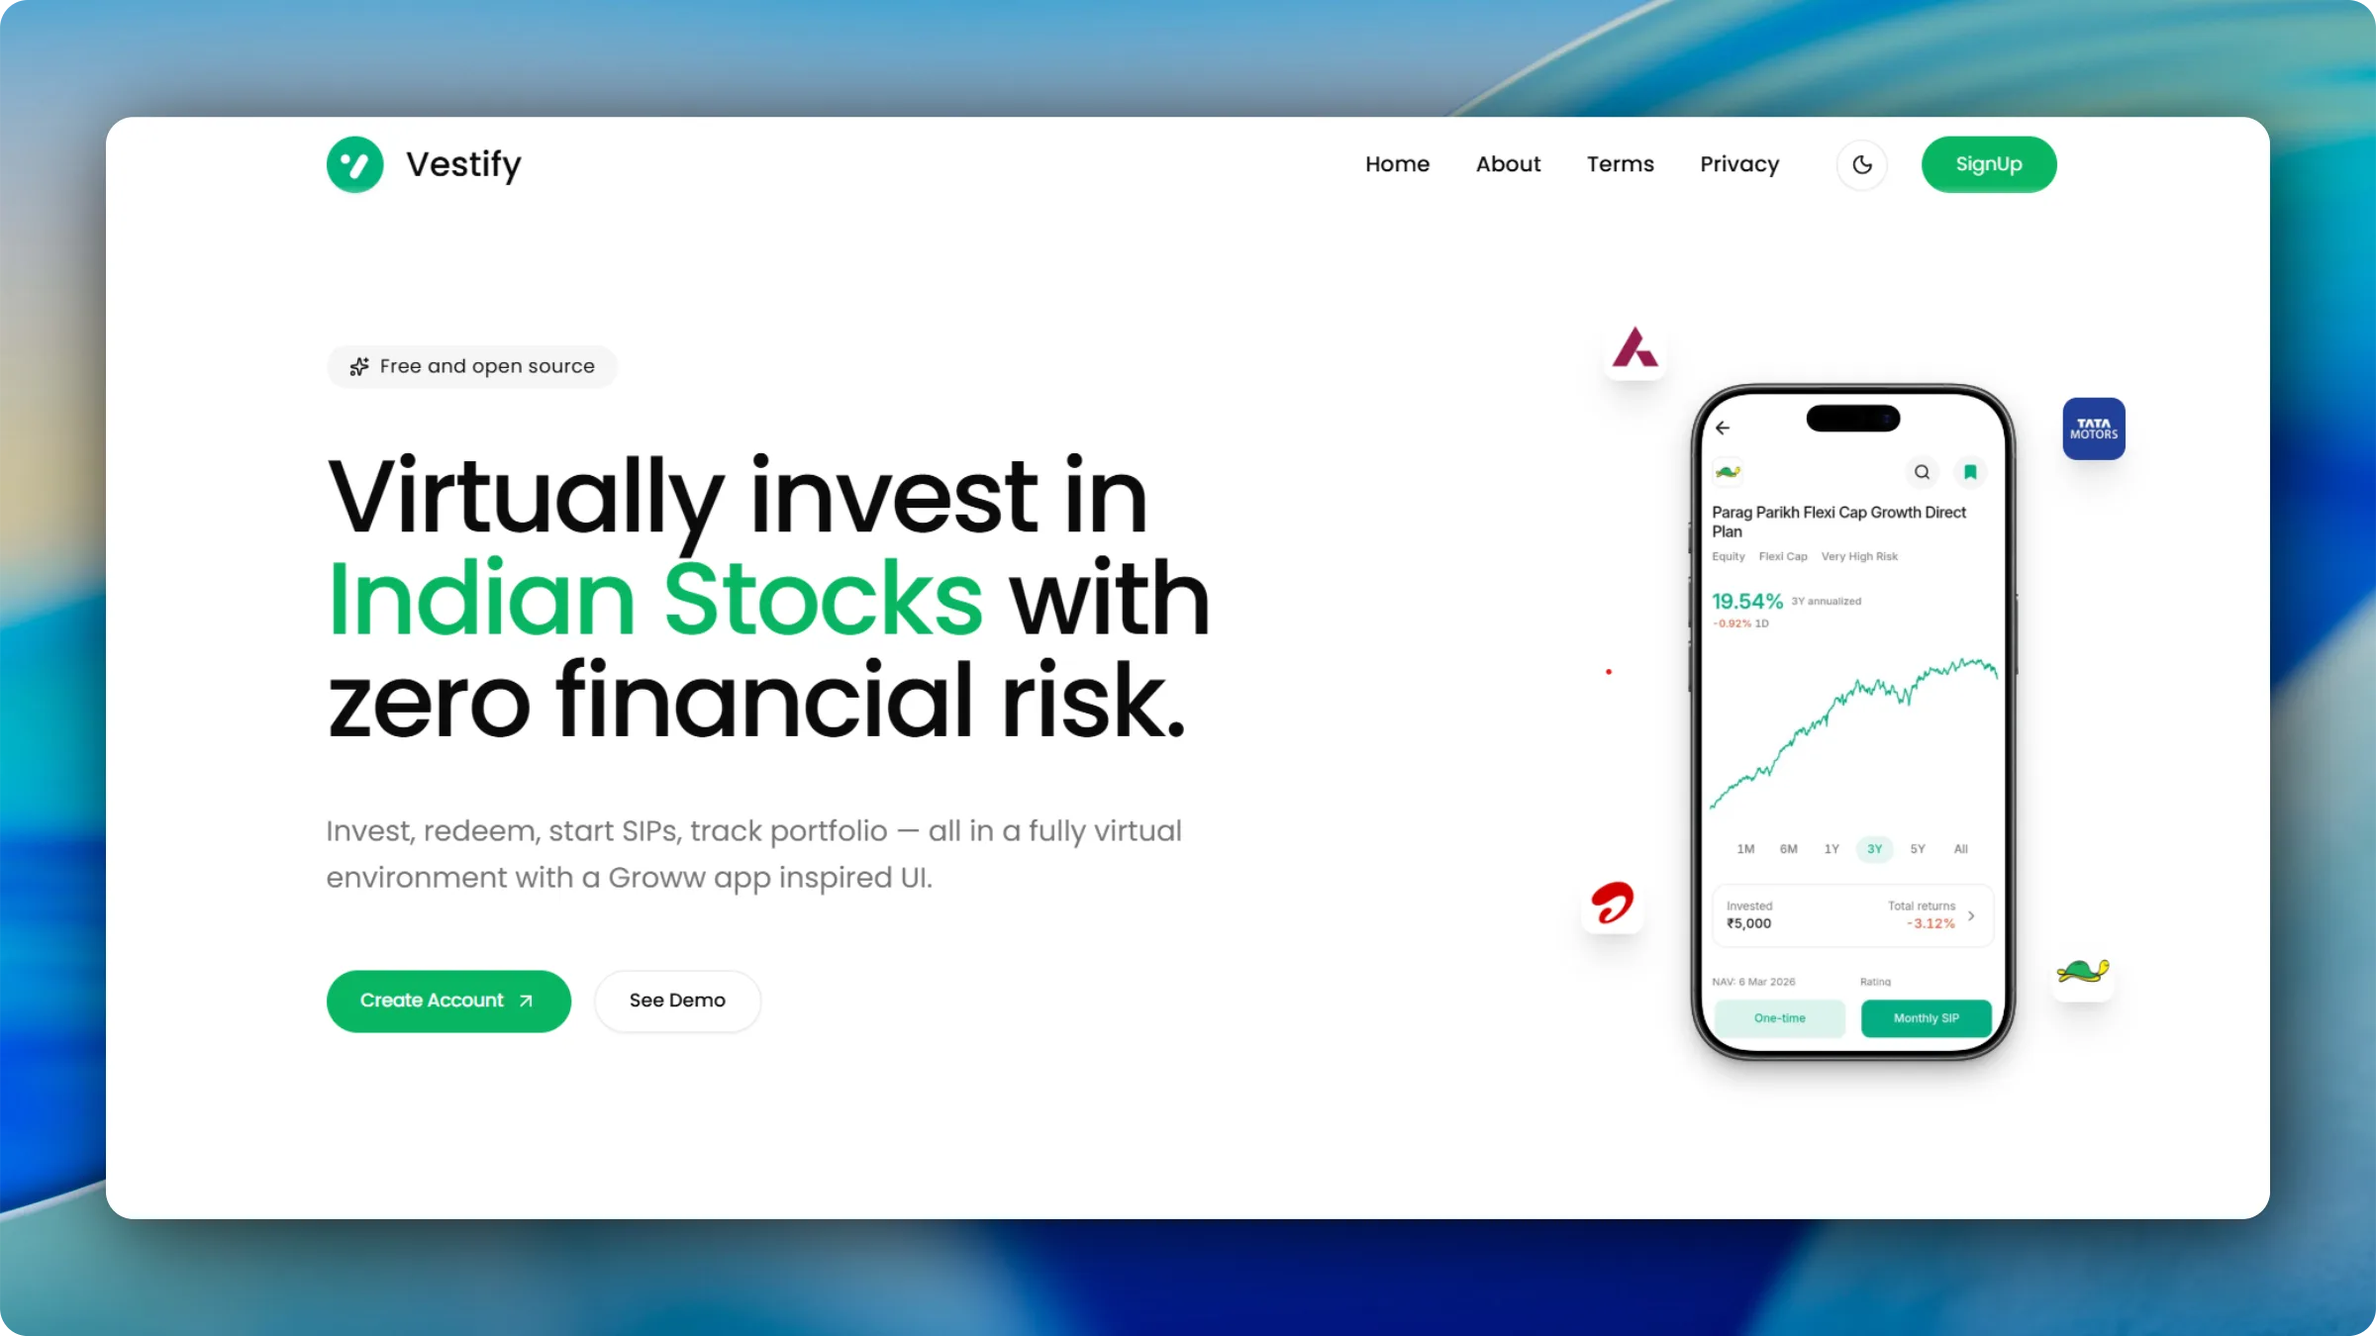
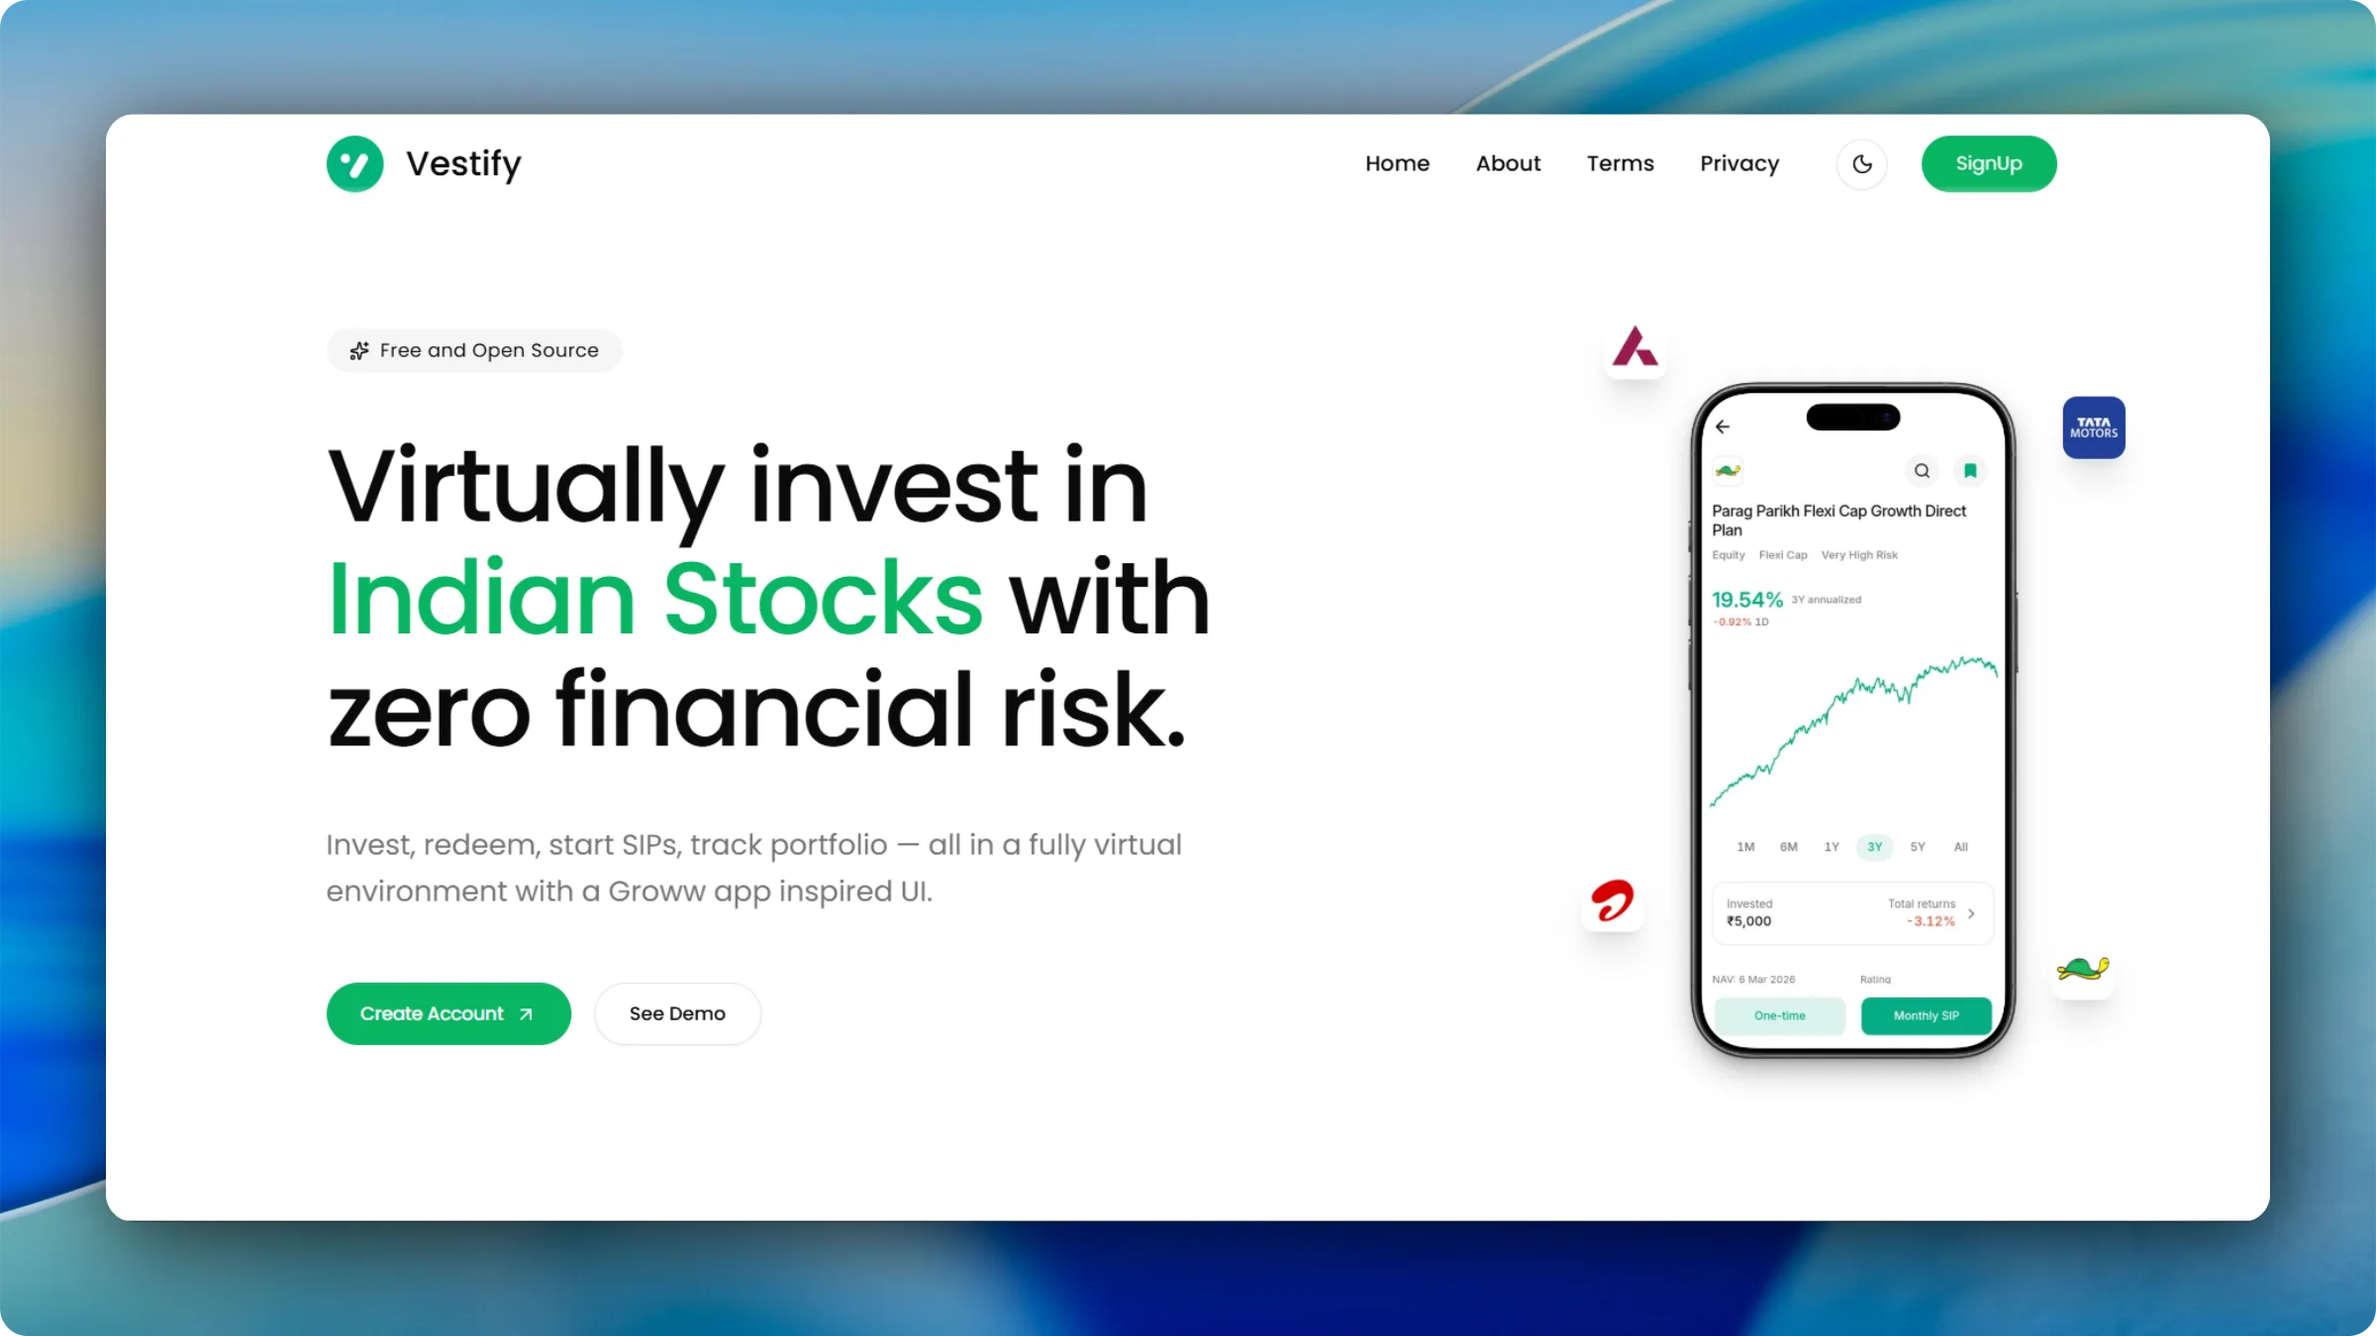
refactor: restructure modules and refine UI layout
- Move `constants/` from `src/lib/` to `src/constants/` and create dedicated `src/utils/`
- Update module import paths across all components, pages, and API routes
- Adjust profile header layout, quick navigation styles, and section spacing
- Simplify OpenGraph image component and update site metadata configuration

diff --git a/src/components/sections/profile-header.tsx b/src/components/sections/profile-header.tsx
@@ -3,35 +3,35 @@ import { File02Icon } from "@hugeicons/core-free-icons";
 import { HugeiconsIcon } from "@hugeicons/react";
 import { TbRosetteDiscountCheckFilled } from "react-icons/tb";
 
-import { RESUME_LINK } from "@/lib/constants/site";
-import { SOCIALS } from "@/lib/constants/socials";
 import {
   Tooltip,
   TooltipContent,
   TooltipTrigger,
 } from "@/components/ui/tooltip";
+import { RESUME_LINK } from "@/constants/site";
+import { SOCIALS } from "@/constants/socials";
 import { LinkButton } from "../ui/link-button";
 
 export default function ProfileHeader() {
   return (
-    <section id="profile-header">
+    <section id="profile-header" className="scroll-mt-34!">
       <div className="relative mt-14 pb-8 sm:mt-18 sm:flex sm:gap-12">
         <Image
           src="/avatar.jpeg"
           width={1546}
           height={1450}
           alt="avatar"
-          className="bg-accent size-30 rounded-full object-cover sm:size-43"
+          className="bg-accent size-32 rounded-full object-cover sm:size-43"
         />
 
-        {/* Title & Description */}
         <div>
+          {/* Title & Description */}
           <div>
-            <div className="mt-4 flex items-center gap-2 sm:gap-3">
-              <h1 className="text-2xl font-semibold tracking-tight sm:text-4xl sm:tracking-normal">
+            <div className="mt-4 flex items-center gap-2 sm:gap-4">
+              <h1 className="text-[1.625rem] font-semibold tracking-tight sm:text-4xl sm:tracking-normal">
                 Priyanshu Barman
               </h1>
-              <TbRosetteDiscountCheckFilled className="size-5 text-blue-500 sm:size-6" />
+              <TbRosetteDiscountCheckFilled className="size-5 text-blue-500 sm:size-7" />
             </div>
             <p className="text-muted-foreground mt-1 ml-0.5 tracking-tight sm:mt-3 sm:text-lg">
               Full-Stack Developer • India
@@ -39,43 +39,41 @@ export default function ProfileHeader() {
           </div>
 
           {/* Buttons */}
-          <div className="mt-3 flex flex-col-reverse gap-4 sm:mt-5 sm:flex sm:flex-row sm:items-center">
-            <div className="flex items-center gap-3">
-              <LinkButton
-                href={RESUME_LINK}
-                target="_blank"
-                rel="noopener noreferrer"
-                className="h-8.5 rounded-xl px-3 text-xs font-normal sm:h-9"
-              >
-                <HugeiconsIcon icon={File02Icon} />
-                Resume
-              </LinkButton>
+          <div className="mt-3 flex items-center gap-3 sm:mt-5">
+            <LinkButton
+              href={RESUME_LINK}
+              target="_blank"
+              rel="noopener noreferrer"
+              className="h-8.5 rounded-xl px-3 text-xs font-normal sm:h-9"
+            >
+              <HugeiconsIcon icon={File02Icon} />
+              Resume
+            </LinkButton>
 
-              {SOCIALS.map((social) => (
-                <Tooltip key={social.name}>
-                  <TooltipTrigger
-                    render={
-                      <LinkButton
-                        href={social.link}
-                        size="icon-lg"
-                        variant="outline"
-                        target="_blank"
-                        rel="noopener noreferrer"
-                        aria-label={
-                          social.name === "Gmail"
-                            ? "Send me an email"
-                            : `Visit ${social.name} profile`
-                        }
-                        className="rounded-full shadow-xs"
-                      >
-                        <social.icon aria-hidden="true" />
-                      </LinkButton>
-                    }
-                  />
-                  <TooltipContent sideOffset={10}>{social.name}</TooltipContent>
-                </Tooltip>
-              ))}
-            </div>
+            {SOCIALS.map((social) => (
+              <Tooltip key={social.name}>
+                <TooltipTrigger
+                  render={
+                    <LinkButton
+                      href={social.link}
+                      size="icon-lg"
+                      variant="outline"
+                      target="_blank"
+                      rel="noopener noreferrer"
+                      aria-label={
+                        social.name === "Gmail"
+                          ? "Send me an email"
+                          : `Visit ${social.name} profile`
+                      }
+                      className="rounded-full shadow-xs"
+                    >
+                      <social.icon aria-hidden="true" />
+                    </LinkButton>
+                  }
+                />
+                <TooltipContent sideOffset={10}>{social.name}</TooltipContent>
+              </Tooltip>
+            ))}
           </div>
         </div>
       </div>

diff --git a/src/components/quick-navigation.tsx b/src/components/quick-navigation.tsx
@@ -2,7 +2,7 @@
 
 import type { MouseEvent } from "react";
 
-import { SECTIONS } from "@/lib/constants/sections";
+import { SECTIONS } from "@/constants/sections";
 
 /**
  * This component showcases how simple it is to build a scroll-spy / quick navigation component using
@@ -42,16 +42,17 @@ export default function QuickNavigation() {
       </div>
 
       {/* Popover */}
-      <div className="bg-accent absolute top-1/2 -right-4 hidden max-h-[50vh] w-3xs -translate-y-1/2 flex-col gap-2 overflow-y-auto rounded-2xl border p-3 transition-all duration-300 group-hover:flex">
+      <div className="bg-accent absolute top-1/2 -right-4 hidden max-h-[50vh] w-3xs -translate-y-1/2 flex-col gap-3 overflow-y-auto rounded-2xl border p-3 transition-all duration-300 group-hover:flex">
         {SECTIONS.map((section) => (
           <a
             key={section.id}
             tabIndex={-1}
             href={`#${section.id}`}
             onClick={(e) => handleClick(e, section.id)}
-            className="hover:bg-background [&:target-current]:bg-foreground [&:target-current]:text-background rounded-lg px-3 py-2 text-sm font-medium"
+            className="hover:bg-background [&:target-current]:bg-foreground [&:target-current]:text-background flex items-center justify-between rounded-lg px-3 py-2 text-sm font-medium"
           >
             {section.name}
+            <div className="bg-accent h-1.5 w-6 rounded-2xl" />
           </a>
         ))}
       </div>

diff --git a/src/app/layout.tsx b/src/app/layout.tsx
@@ -2,10 +2,10 @@ import type { Metadata, Viewport } from "next";
 import { Geist, Geist_Mono } from "next/font/google";
 import { GoogleAnalytics } from "@next/third-parties/google";
 
-import { META_THEME_COLORS, SITE_INFO, X_USERNAME } from "@/lib/constants/site";
 import { cn } from "@/lib/utils";
 import { TooltipProvider } from "@/components/ui/tooltip";
 import { ThemeProvider } from "@/components/theme-provider";
+import { META_THEME_COLORS, SITE_INFO, X_USERNAME } from "@/constants/site";
 
 import "./globals.css";
 
@@ -17,6 +17,10 @@ const geistMono = Geist_Mono({
 });
 
 export const metadata: Metadata = {
+  metadataBase: new URL(SITE_INFO.url),
+  alternates: {
+    canonical: "/",
+  },
   title: SITE_INFO.name,
   description: SITE_INFO.description,
   keywords: SITE_INFO.keywords,
@@ -31,12 +35,28 @@ export const metadata: Metadata = {
     title: SITE_INFO.name,
     description: SITE_INFO.description,
     siteName: SITE_INFO.name,
+    images: [
+      {
+        url: SITE_INFO.ogImage,
+        width: 1200,
+        height: 630,
+        alt: SITE_INFO.name,
+      },
+    ],
   },
   twitter: {
     card: "summary_large_image",
     title: SITE_INFO.name,
     description: SITE_INFO.description,
     creator: X_USERNAME,
+    images: [
+      {
+        url: SITE_INFO.ogImage,
+        width: 1200,
+        height: 630,
+        alt: SITE_INFO.name,
+      },
+    ],
   },
 };
 

diff --git a/src/constants/projects.ts b/src/constants/projects.ts
@@ -63,7 +63,7 @@ export const PROJECTS = [
     siteLink: "https://resizepedia.priyanshux.me?utm_source=portfolio",
     githubLink: `${GITHUB_LINK}/resizepedia`,
     description:
-      "A privacy-first document & image toolkit for preparing files according to the requirements of different applications and online portals.",
+      "A privacy-first document & image toolkit for preparing files according to the requirements of different online applications and portals.",
     features: [
       "Fully client-side processing with no server uploads, files never leave the user's device.",
       "Automatic resizing, compression, and format conversion based on the specific requirements of each application portal.",
@@ -101,6 +101,7 @@ export const PROJECTS = [
     name: "Mutual Fund Api",
     img: "/projects/mutual-fund-api.webp",
     githubLink: `${GITHUB_LINK}/Mutual-Fund-Api`,
+    siteLink: "https://api.mf.priyanshux.me/api/v1/mutual-funds",
     description:
       "A unified mutual fund API that aggregates data from MfApi.in and unofficial Kuvera API into a single structured source, powering Vestify.",
     features: [

diff --git a/src/components/navbar.tsx b/src/components/navbar.tsx
@@ -1,8 +1,3 @@
-"use client";
-
-import { type MouseEvent } from "react";
-
-import { Button } from "@/components/ui/button";
 import ThemeSwitcher from "@/components/theme-switcher";
 import PLogo from "./p-logo";
 
@@ -22,27 +17,10 @@ export const SECTIONS = [
 ];
 
 export default function Navbar() {
-  const handleClick = (e: MouseEvent<HTMLButtonElement>, sectionId: string) => {
-    e.preventDefault();
-    const el = document.getElementById(sectionId);
-    el?.scrollIntoView({ behavior: "smooth" });
-  };
-
   return (
     <nav className="bg-background/50 sticky top-0 z-50 backdrop-blur-xs">
       <div className="mx-auto flex max-w-3xl items-center justify-between px-4 py-2">
         <PLogo />
-        <div className="gap-4 max-sm:hidden">
-          {SECTIONS.map((section) => (
-            <Button
-              variant="ghost"
-              key={section.id}
-              onClick={(e) => handleClick(e, section.id)}
-            >
-              {section.name}
-            </Button>
-          ))}
-        </div>
         <ThemeSwitcher />
       </div>
     </nav>

diff --git a/src/components/sections/tech-stack.tsx b/src/components/sections/tech-stack.tsx
@@ -8,11 +8,11 @@ import {
 import { HugeiconsIcon } from "@hugeicons/react";
 import { motion } from "motion/react";
 
-import { TECH_STACK } from "@/lib/constants/tech-stack";
 import { cn } from "@/lib/utils";
 import { useIsMobile } from "@/hooks/use-mobile";
 import { Badge } from "@/components/ui/badge";
 import { Button } from "@/components/ui/button";
+import { TECH_STACK } from "@/constants/tech-stack";
 
 export default function TechStack() {
   const isMobile = useIsMobile();
@@ -25,7 +25,7 @@ export default function TechStack() {
   };
 
   return (
-    <section id="tech-stack" className="border-t border-dashed py-12">
+    <section id="tech-stack" className="mt-6 border-t border-dashed py-12">
       <div className="flex items-center justify-between">
         <h2 className="text-xl font-semibold sm:text-2xl">Tech stack</h2>
         <Button

diff --git a/src/components/sections/projects.tsx b/src/components/sections/projects.tsx
@@ -4,10 +4,10 @@ import { useState } from "react";
 import { ChevronDownIcon } from "@hugeicons/core-free-icons";
 import { HugeiconsIcon } from "@hugeicons/react";
 
-import { PROJECTS } from "@/lib/constants/projects";
 import { cn } from "@/lib/utils";
 import { Button } from "@/components/ui/button";
 import ProjectCard from "@/components/project-card";
+import { PROJECTS } from "@/constants/projects";
 
 export default function Projects() {
   const [isViewAll, setIsViewAll] = useState(false);
@@ -17,7 +17,7 @@ export default function Projects() {
   return (
     <section
       id="projects"
-      className="flex flex-col border-t border-dashed py-12 sm:mt-6"
+      className="flex flex-col border-t border-dashed py-6 sm:mt-4 sm:py-8"
     >
       <h2 className="text-xl font-semibold sm:text-2xl">Projects</h2>
 

diff --git a/src/components/sections/education.tsx b/src/components/sections/education.tsx
@@ -5,7 +5,6 @@ import { UnfoldLessIcon, UnfoldMoreIcon } from "@hugeicons/core-free-icons";
 import { HugeiconsIcon } from "@hugeicons/react";
 import { AnimatePresence, motion } from "motion/react";
 
-import { EDUCATION } from "@/lib/constants/education";
 import { Button } from "@/components/ui/button";
 import {
   Item,
@@ -20,6 +19,7 @@ import {
   TooltipContent,
   TooltipTrigger,
 } from "@/components/ui/tooltip";
+import { EDUCATION } from "@/constants/education";
 
 export default function Education() {
   const [isCollapsed, setIsCollapsed] = useState(false);

diff --git a/src/components/p-logo.tsx b/src/components/p-logo.tsx
@@ -4,10 +4,10 @@ import { LinkButton } from "@/components/ui/link-button";
 export default function PLogo() {
   return (
     <LinkButton
-      href="#"
+      href="/"
       size="icon-lg"
       variant="ghost"
-      className="size-12 overflow-hidden rounded-full"
+      className="size-11 overflow-hidden rounded-full sm:size-12"
     >
       <Avatar className="size-full after:border-transparent dark:hidden">
         <AvatarImage alt="p logo" src="/p-logo.png" className="scale-150" />

diff --git a/src/constants/site.ts b/src/constants/site.ts
@@ -1,9 +1,11 @@
 export const SITE_INFO = {
   name: "Priyanshu Barman",
   shortName: "Priyanshu",
-  url: process.env.NEXT_PUBLIC_SITE_URL,
+  url: process.env.NEXT_PUBLIC_SITE_URL ?? "",
   description:
     "Hi, I'm Priyanshu, a Full-Stack Developer. I build products that solve real problems.",
+  ogImage:
+    "https://res.cloudinary.com/dmtp3bdzx/image/upload/v1780823781/Screenshot_2026-06-07_144454_q6w1bk.png",
   keywords: [
     "Priyanshu Barman",
     "Priyanshu Barman Portfolio",

diff --git a/src/components/sections/github-contributions.tsx b/src/components/sections/github-contributions.tsx
@@ -2,8 +2,8 @@ import { Suspense } from "react";
 import { Loading03Icon } from "@hugeicons/core-free-icons";
 import { HugeiconsIcon } from "@hugeicons/react";
 
-import { getGitHubContributions } from "@/lib/get-contributions";
 import GitHubContributionGraph from "@/components/contribution-graph";
+import { getGitHubContributions } from "@/utils/get-contributions";
 
 export default function GitHubContributions() {
   const contributions = getGitHubContributions();

diff --git a/src/components/contribution-graph.tsx b/src/components/contribution-graph.tsx
@@ -2,7 +2,6 @@
 
 import { use } from "react";
 
-import { GITHUB_LINK } from "@/lib/constants/site";
 import {
   ContributionGraph,
   ContributionGraphBlock,
@@ -12,6 +11,7 @@ import {
   ContributionGraphTotalCount,
   type Activity,
 } from "@/components/ui/contribution-graph";
+import { GITHUB_LINK } from "@/constants/site";
 import { Tooltip, TooltipContent, TooltipTrigger } from "./ui/tooltip";
 
 export default function GitHubContributionGraph({
